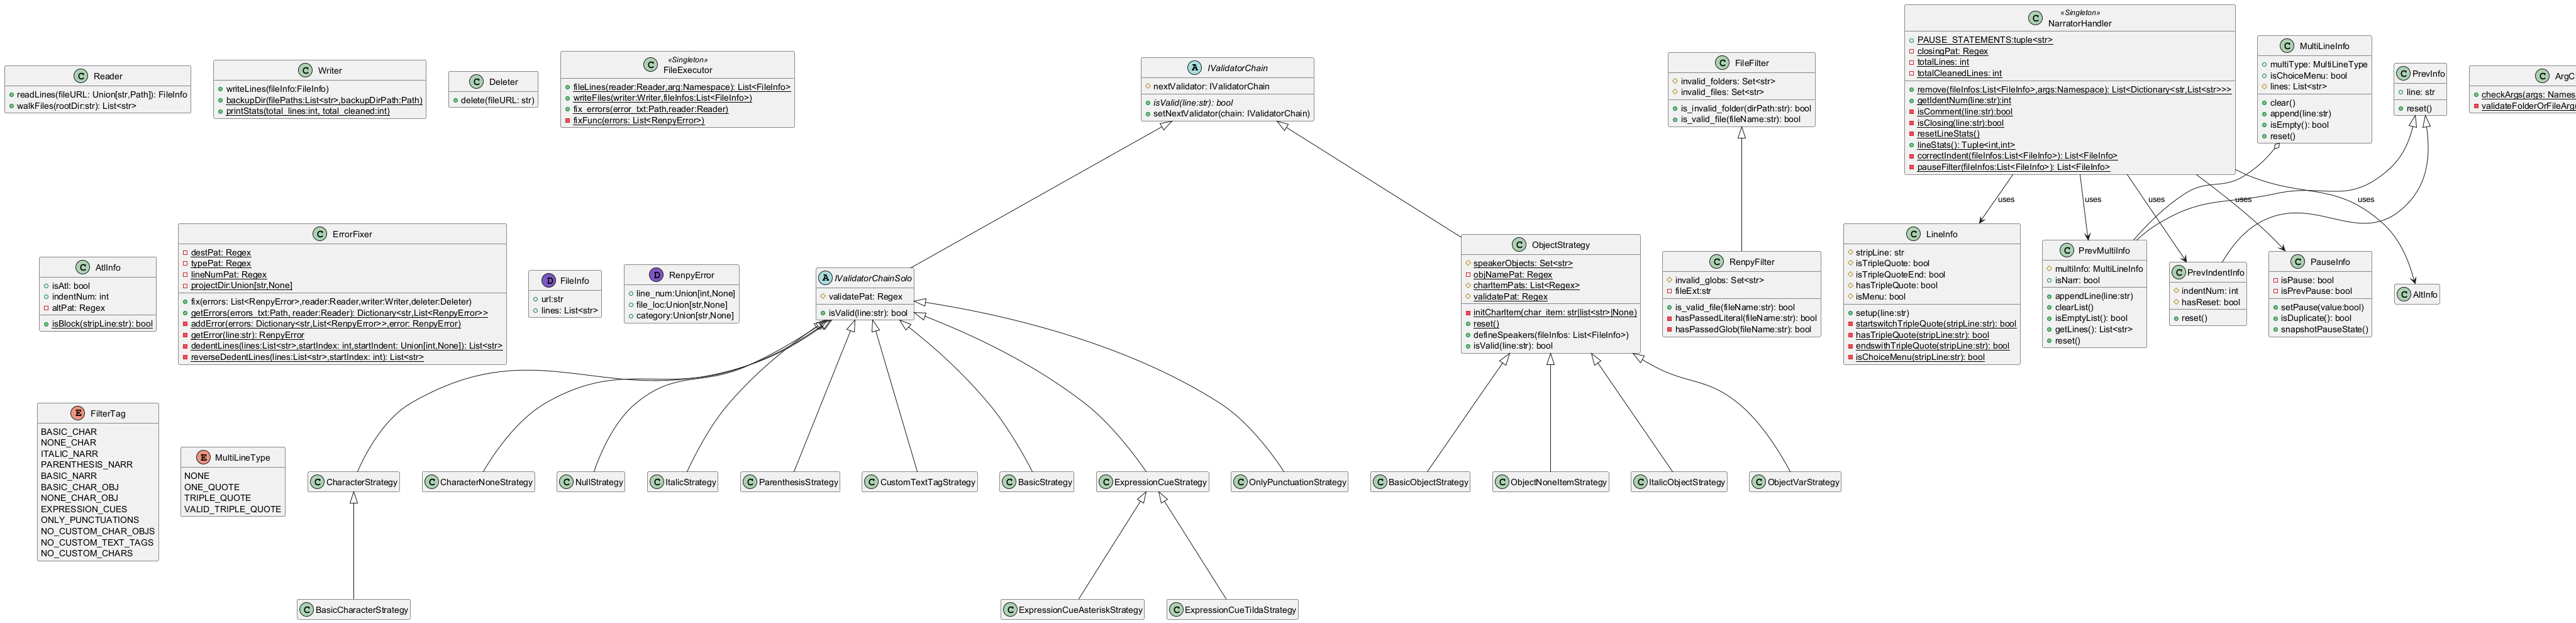
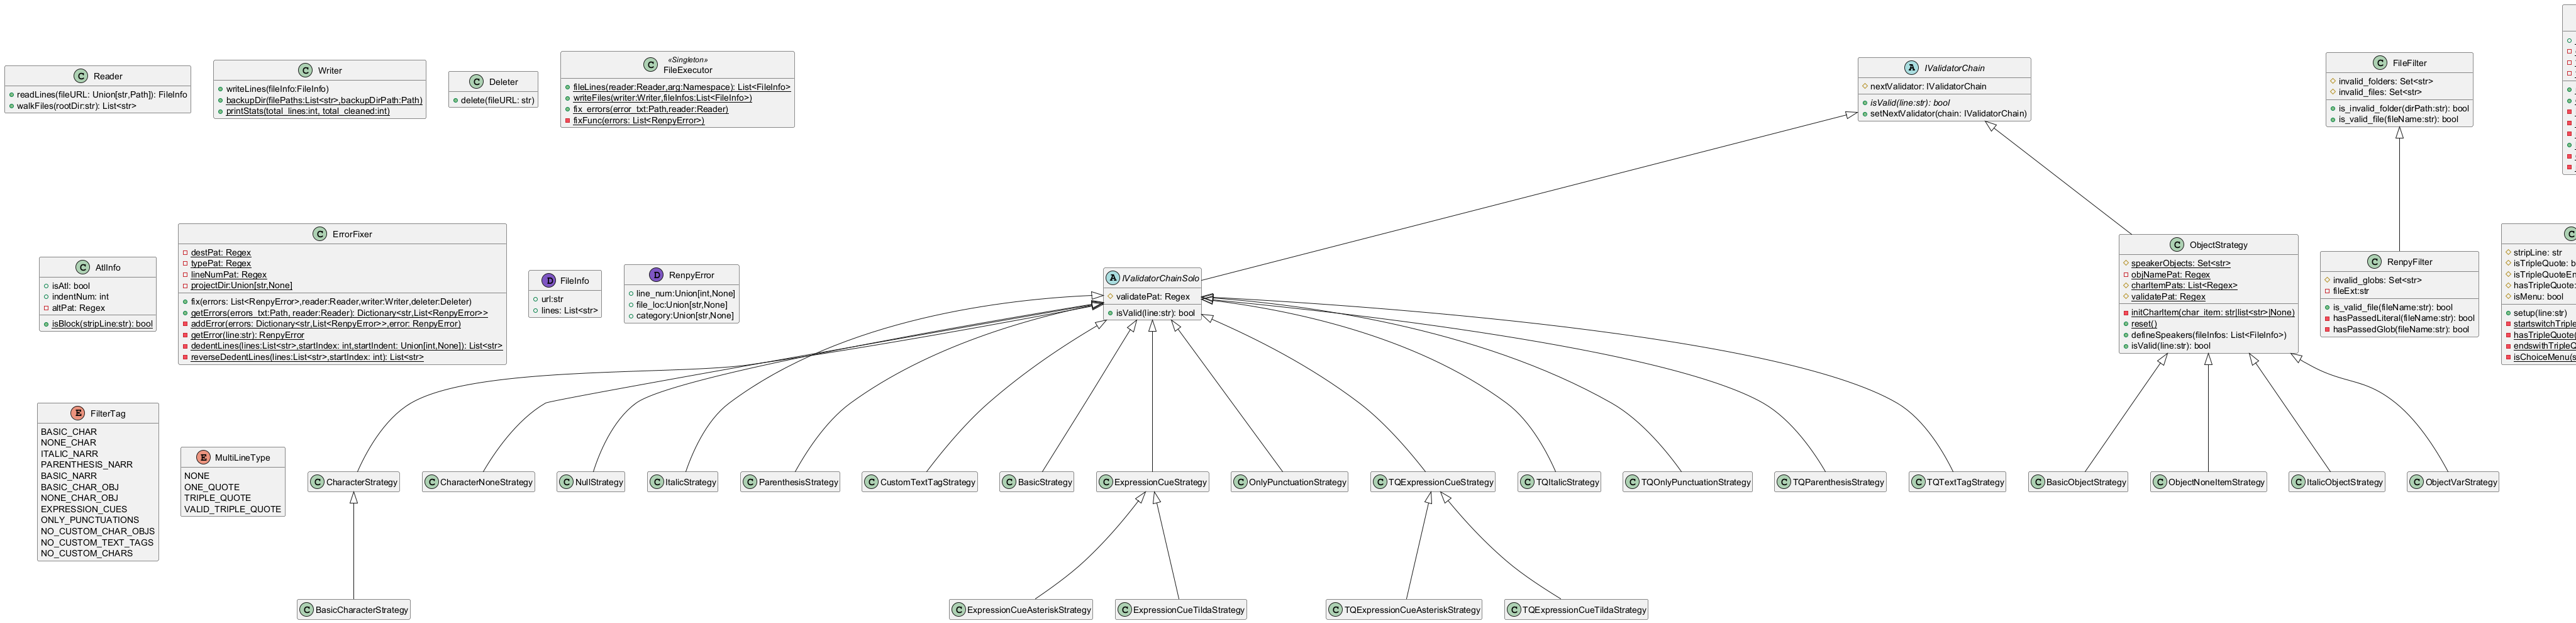
Support filtering dialogue found inside a triple quote. - add more invalid folders - relocate default narrator list to its own markdown file. - Refactor expression cue classes - Update tests - Update class diagram - Update README.md

diff --git a/tests/validator/test_triple_quote.py b/tests/validator/test_triple_quote.py
@@ -1,0 +1,62 @@
+import unittest
+
+from lib.validator.triple_quote import *
+
+
+class TestTripleQuote(unittest.TestCase):
+
+    @classmethod
+    def setUpClass(cls):
+        cls.phrase = "Water is very important, Martha!"
+
+    def test_parenthesis(self):
+        validator = TQParenthesisStrategy()
+        self.assertTrue(validator.is_valid(f"({self.phrase})"), "plain parenthesis")
+        self.assertFalse(validator.is_valid(f"(){self.phrase})"), "invalid plain parenthesis")
+        self.assertTrue(validator.is_valid(f"{{bzs}}({self.phrase}){{/bzs}}"), "parenthesis surrounded by text tag")
+        self.assertFalse(validator.is_valid(f"{{bzs}}(){self.phrase}){{/bzs}}"),
+                         "invalid parenthesis surrounded by text tag")
+        self.assertFalse(validator.is_valid(f'({self.phrase})"""'), "plain parenthesis w/ triple quote end")
+        self.assertFalse(validator.is_valid(f'"""({self.phrase})'), "plain parenthesis w/ triple quote start")
+
+    def test_asterisk_cue(self):
+        validator = TQExpressionCueAsteriskStrategy()
+        self.assertTrue(validator.is_valid("*Pop!*"), "single asterisk cue")
+        self.assertTrue(validator.is_valid("{gha}*Pop!*{/gha}"), "single asterisk cue surrounded by text tag")
+        self.assertTrue(validator.is_valid("**Pop!**"), "double asterisks cue")
+        self.assertTrue(validator.is_valid("{gha}**Pop!**{/gha}"), "double asterisks cue surrounded by text tag")
+        self.assertFalse(validator.is_valid('*Pop!*"""'), "single asterisk cue w/ triple quote end")
+        self.assertFalse(validator.is_valid('"""*Pop!*'), "single asterisk cue w/ triple quote start")
+
+    def test_tilda_cue(self):
+        validator = TQExpressionCueTildaStrategy()
+        self.assertTrue(validator.is_valid("~Pop!~"), "single tilda cue")
+        self.assertTrue(validator.is_valid("{gha}~Pop!~{/gha}"), "single tilda cue surrounded by text tag")
+        self.assertTrue(validator.is_valid("~~Pop!~~"), "double tildas cue")
+        self.assertTrue(validator.is_valid("{gha}~~Pop!~~{/gha}"), "double tildas cue surrounded by text tag")
+
+    def test_only_punctuation(self):
+        validator = TQOnlyPunctuationStrategy()
+        self.assertTrue(validator.is_valid("......."), "only periods")
+        self.assertTrue(validator.is_valid("{fe}.......{/fe}"), "only periods surrounded by text tag")
+        self.assertTrue(validator.is_valid("!!!!!!!"), "only exclamation marks")
+        self.assertTrue(validator.is_valid("{fe}!!!!!!!{/fe}"), "only exclamation marks surrounded by text tag")
+        self.assertTrue(validator.is_valid("???????"), "only question marks")
+        self.assertTrue(validator.is_valid("{fe}???????{/fe}"), "only question marks surrounded by text tag")
+        self.assertFalse(validator.is_valid("Hey???????"), "invalid only question marks")
+        self.assertFalse(validator.is_valid('""".......'), "only periods w/ triple quote start")
+        self.assertFalse(validator.is_valid('......."""'), "only periods w/ triple quote end")
+
+    def test_italic(self):
+        validator = TQItalicStrategy()
+        self.assertTrue(validator.is_valid(f'{{i}}{self.phrase}{{/i}}'), "italic tags")
+        self.assertTrue(validator.is_valid(f'{{fe}}{{i}}{self.phrase}{{/i}}{{/fe}}'),
+                        "italic tags surrounded by text tag")
+        self.assertFalse(validator.is_valid(f'{{i}}{self.phrase}{{/i}}"""'), "italic tags w/ triple quote end")
+        self.assertFalse(validator.is_valid(f'"""{{i}}{self.phrase}{{/i}}'), "italic tags w/ triple quote start")
+
+    def test_text_tag(self):
+        validator = TQTextTagStrategy("poi")
+        self.assertTrue(validator.is_valid(f'{{poi}}{self.phrase}{{/poi}}'), "text tag")
+        self.assertFalse(validator.is_valid(f'"""{{poi}}{self.phrase}{{/poi}}'), "text tag w/ triple quote start")
+        self.assertFalse(validator.is_valid(f'{{poi}}{self.phrase}{{/poi}}"""'), "text tag w/ triple quote end")

diff --git a/src/lib/arg/arg_assembler.py b/src/lib/arg/arg_assembler.py
@@ -10,6 +10,7 @@ from lib.validator.dialogue import (
     ExpressionCueAsteriskStrategy,
     OnlyPunctuationStrategy,
 )
+from lib.validator.ivalidator_chain import IValidatorChain
 
 from lib.validator.null_strategy import NullStrategy
 from lib.validator.speaker import (
@@ -24,6 +25,7 @@ from lib.validator.speaker import (
 )
 from lib.file.filter import RenpyFilter
 from lib.custom_types import FilterTag
+from lib.validator.triple_quote import *
 
 
 @final
@@ -45,6 +47,8 @@ class ArgAssembler:
         FilterTag.ONLY_PUNCTUATIONS.value: OnlyPunctuationStrategy,
         FilterTag.NONE_CHAR.value: CharacterNoneStrategy,
     }
+    __tq_validators: list[type] = [TQExpressionCueTildaStrategy, TQItalicStrategy, TQParenthesisStrategy,
+                                   TQExpressionCueAsteriskStrategy, TQOnlyPunctuationStrategy]
 
     @classmethod
     def assemble(cls, args: Namespace):
@@ -54,6 +58,7 @@ class ArgAssembler:
             args: Namespace class containing parsed arguments.
         """
         cls.__line_filters(args)
+        cls.__triple_quote_filters(args)
         cls.__file_filters(args)
 
     @classmethod
@@ -113,6 +118,35 @@ class ArgAssembler:
             arg_filter_len = len(arg_filter)
             for i in range(arg_filter_len):
                 validator.next_validator = cls.__validators[filter_name](arg_filter[i])
+                if i < arg_filter_len - 1:
+                    validator = validator.next_validator
+        return validator.next_validator
+
+    @classmethod
+    def __triple_quote_filters(cls, args: Namespace):
+        current_validator: IValidatorChain | None = None
+        for validator in cls.__tq_validators:
+            if not current_validator:
+                args.triple_quote_validator = validator()
+                current_validator = args.triple_quote_validator
+            else:
+                current_validator.next_validator = validator()
+                current_validator = current_validator.next_validator
+        current_validator = cls.__triple_quote_nargs(current_validator, cls.__escape(args, args.no_custom_tags),
+                                                     TQTextTagStrategy)
+
+    @staticmethod
+    def __triple_quote_nargs(validator, arg_filter: str | list[str] | None, filter_type: type):
+        if not arg_filter:
+            return validator
+        if type(arg_filter) is str:
+            # Regex is On
+            validator.next_validator = filter_type(arg_filter)
+        else:
+            # Regex is Off
+            arg_filter_len = len(arg_filter)
+            for i in range(arg_filter_len):
+                validator.next_validator = filter_type(arg_filter[i])
                 if i < arg_filter_len - 1:
                     validator = validator.next_validator
         return validator.next_validator

diff --git a/tests/arg/test_arg_assembler.py b/tests/arg/test_arg_assembler.py
@@ -15,6 +15,15 @@ class TestArgAssembler(unittest.TestCase):
     def setUp(self) -> None:
         self._parser = CLIParser()
 
+    def eval_triple_quote_chain(self, arg_namespace, correct_count: int):
+        ArgAssembler.assemble(arg_namespace)
+        current_validator = arg_namespace.triple_quote_validator
+        count = 0
+        while current_validator:
+            count += 1
+            current_validator = current_validator.next_validator
+        self.assertEqual(count, correct_count, "Triple quote validators are not assembled correctly.")
+
     def eval_validator_chain(self, arg_namespace, correct_type_list):
         ArgAssembler.assemble(arg_namespace)
         current_validator = arg_namespace.validator
@@ -27,6 +36,10 @@ class TestArgAssembler(unittest.TestCase):
     def start(self, args, correct_type_list):
         arg_namespace = fixture.get_args(self._parser, args)
         self.eval_validator_chain(arg_namespace, correct_type_list)
+
+    def start_triple_quote(self, args, correct_count: int):
+        arg_namespace = fixture.get_args(self._parser, args)
+        self.eval_triple_quote_chain(arg_namespace, correct_count)
 
     def start_escape(self, args, correct_count: int):
         arg_namespace = fixture.get_args(self._parser, args)
@@ -46,7 +59,8 @@ class TestArgAssembler(unittest.TestCase):
             FilterTag.BASIC_NARR.value,
         ]
         self.start(args, {NullStrategy, ObjectNoneItemStrategy, ParenthesisStrategy, BasicObjectStrategy,
-                          ExpressionCueAsteriskStrategy, ExpressionCueTildaStrategy, OnlyPunctuationStrategy, CharacterNoneStrategy})
+                          ExpressionCueAsteriskStrategy, ExpressionCueTildaStrategy, OnlyPunctuationStrategy,
+                          CharacterNoneStrategy})
 
     def test_nargs(self):
         args = [
@@ -134,5 +148,13 @@ class TestArgAssembler(unittest.TestCase):
             FilterTag.NONE_CHAR.value,
         ]
         self.start(
-            args, {NullStrategy, ItalicStrategy,ItalicObjectStrategy,ExpressionCueTildaStrategy,ExpressionCueAsteriskStrategy}
+            args, {NullStrategy, ItalicStrategy, ItalicObjectStrategy, ExpressionCueTildaStrategy,
+                   ExpressionCueAsteriskStrategy}
         )
+    def test_triple_quote_args(self):
+        args = ["game/"]
+        self.start_triple_quote(args, 5)
+
+    def test_triple_quote_with_nargs(self):
+        args = ["game/", FilterTag.NO_CUSTOM_TEXT_TAGS.value, "plw", "blq"]
+        self.start_triple_quote(args, 7)

diff --git a/src/lib/validator/triple_quote/tq_expression_cue_strategy.py b/src/lib/validator/triple_quote/tq_expression_cue_strategy.py
@@ -1,0 +1,20 @@
+from abc import ABC
+import re
+from ..ivalidator_chain_solo import IValidatorChainSolo
+from ..ivalidator_chain import IValidatorChain
+
+
+class TQExpressionCueStrategy(IValidatorChainSolo, ABC):
+    """Validates a line within a triple quote that are only expression cues.
+
+    Example:
+        mc\"""We need to get out of here!
+            *Yells loudly*
+            ~Shrieks~
+        Ok! everything's fine!\"""
+    """
+
+    def __init__(self, cue_symbol: str, next_validator: "IValidatorChain | None" = None) -> None:
+        super().__init__(next_validator)
+        self._validate_pat = re.compile(
+            rf'^(?:{{\w+(?:=[^}}]+)?}})*({cue_symbol}{{1,2}})[^{cue_symbol}]+\1(?:(?:{{/\w+}})*[.?!]?|[.?!]?(?:{{/\w+}})*)$')

diff --git a/src/lib/validator/triple_quote/tq_italic_strategy.py b/src/lib/validator/triple_quote/tq_italic_strategy.py
@@ -1,0 +1,16 @@
+from ..ivalidator_chain_solo import IValidatorChainSolo
+from ..ivalidator_chain import IValidatorChain
+import re
+
+class TQItalicStrategy(IValidatorChainSolo):
+    """Validates italics inside a mutli-line triple quote dialogue.
+
+    Example:
+        mc\"""
+        {i}This is a piece of dialogue.{/i}
+        \"""
+    """
+
+    def __init__(self, next_validator: "IValidatorChain | None" = None) -> None:
+        super().__init__(next_validator)
+        self._validate_pat = re.compile(r'^(?:{\w+(?:=[^}]+)?})*\{i\}((?:(?!\{/?i\}).)+)(?:\{/?i\})?(?:[.?!]?(?:{/\w+})*|(?:{/\w+})*[/?!]?)$')

diff --git a/src/lib/validator/triple_quote/tq_only_punctuation_strategy.py b/src/lib/validator/triple_quote/tq_only_punctuation_strategy.py
@@ -1,0 +1,16 @@
+import re
+from ..ivalidator_chain_solo import IValidatorChainSolo
+from ..ivalidator_chain import IValidatorChain
+
+class TQOnlyPunctuationStrategy(IValidatorChainSolo):
+    """Validates a line in a multi-line triple quote containing only a punctuation.
+
+    Example:
+        mc\"""
+            ......
+        \"""
+    """
+
+    def __init__(self, next_validator: "IValidatorChain | None" = None) -> None:
+        super().__init__(next_validator)
+        self._validate_pat = re.compile(r'^(?:{\w+(?:=[^}]+)?})*[.?!]+(?:{/\w+})*$')

diff --git a/src/lib/validator/triple_quote/tq_parenthesis_strategy.py b/src/lib/validator/triple_quote/tq_parenthesis_strategy.py
@@ -1,0 +1,16 @@
+from ..ivalidator_chain_solo import IValidatorChainSolo
+from ..ivalidator_chain import IValidatorChain
+import re
+
+class TQParenthesisStrategy(IValidatorChainSolo):
+    """Validates a line within a triple quote surrounded by a parenthesis.
+
+    Example:
+        narr\"""Hello there!
+            (I am inside a parenthesis.)
+            We are in this together.\"""
+    """
+
+    def __init__(self, next_validator: "IValidatorChain | None" = None) -> None:
+        super().__init__(next_validator)
+        self._validate_pat = re.compile(r'^(?:{\w+(?:=[^}]+)?})*(?:\\|\\[\'"])?\([^()]+(?:\\?\)(?:\\[\'"])?)?(?:[.?!]?(?:{/\w+})*|(?:{/\w+})*[/?!]?)$')

diff --git a/src/lib/validator/triple_quote/tq_text_tag_strategy.py b/src/lib/validator/triple_quote/tq_text_tag_strategy.py
@@ -1,0 +1,16 @@
+import re
+from ..ivalidator_chain_solo import IValidatorChainSolo
+from ..ivalidator_chain_solo import IValidatorChain
+
+class TQTextTagStrategy(IValidatorChainSolo):
+    """Validates a line in a multiline triple quote surrounded by a custom text tag.
+
+    Example:
+        mc\"""
+            {bgc=100}This is a dialogue sequence{/bgc}
+        \"""
+    """
+
+    def __init__(self, tag_name:str, next_validator: "IValidatorChain | None" = None) -> None:
+        super().__init__(next_validator)
+        self._validate_pat = re.compile(rf'^(?!.*"""){{(?:{tag_name})(?:=[^}}]+)?}}.+(?:{{/?(?:{tag_name})}})?[.?!]?$')

diff --git a/src/lib/validator/triple_quote/__init__.py b/src/lib/validator/triple_quote/__init__.py
@@ -1,0 +1,9 @@
+from .tq_expression_cue_asterisk_strategy import TQExpressionCueAsteriskStrategy
+from .tq_expression_cue_tilda_strategy import TQExpressionCueTildaStrategy
+from .tq_italic_strategy import TQItalicStrategy
+from .tq_only_punctuation_strategy import TQOnlyPunctuationStrategy
+from .tq_text_tag_strategy import TQTextTagStrategy
+from .tq_parenthesis_strategy import TQParenthesisStrategy
+
+__all__ = ["TQTextTagStrategy", "TQParenthesisStrategy", "TQItalicStrategy", "TQExpressionCueTildaStrategy",
+           "TQExpressionCueAsteriskStrategy", "TQOnlyPunctuationStrategy"]

diff --git a/src/lib/validator/dialogue/expression_cue_strategy.py b/src/lib/validator/dialogue/expression_cue_strategy.py
@@ -1,7 +1,12 @@
 import abc
 from ..ivalidator_chain_solo import IValidatorChainSolo
+from ..ivalidator_chain import IValidatorChain
+import re
 
 
 class ExpressionCueStrategy(IValidatorChainSolo,abc.ABC):
     """Filter for removing lines that is only expression cue(s)."""
-    pass
+
+    def __init__(self, cue_symbol:str, next_validator: "IValidatorChain | None" = None) -> None:
+        super().__init__(next_validator)
+        self._validate_pat = re.compile(rf"[^=]+([\"'])(?:{{\w+(?:=[^}}]+)?}})*({cue_symbol}{{1,2}})[^{cue_symbol}]+\2(?:(?:{{/\w+}})*[.?!]?|[.?!]?(?:{{/\w+}})*)\s*\1(?:\s*with .+)?")

diff --git a/src/lib/validator/triple_quote/tq_expression_cue_asterisk_strategy.py b/src/lib/validator/triple_quote/tq_expression_cue_asterisk_strategy.py
@@ -1,0 +1,7 @@
+from .tq_expression_cue_strategy import TQExpressionCueStrategy
+from ..ivalidator_chain import IValidatorChain
+
+
+class TQExpressionCueAsteriskStrategy(TQExpressionCueStrategy):
+    def __init__(self, next_validator: "IValidatorChain | None" = None) -> None:
+        super().__init__(r"\*", next_validator)

diff --git a/src/lib/validator/triple_quote/tq_expression_cue_tilda_strategy.py b/src/lib/validator/triple_quote/tq_expression_cue_tilda_strategy.py
@@ -1,0 +1,7 @@
+from .tq_expression_cue_strategy import TQExpressionCueStrategy
+from ..ivalidator_chain import IValidatorChain
+
+
+class TQExpressionCueTildaStrategy(TQExpressionCueStrategy):
+    def __init__(self, next_validator: "IValidatorChain | None" = None) -> None:
+        super().__init__("~", next_validator)